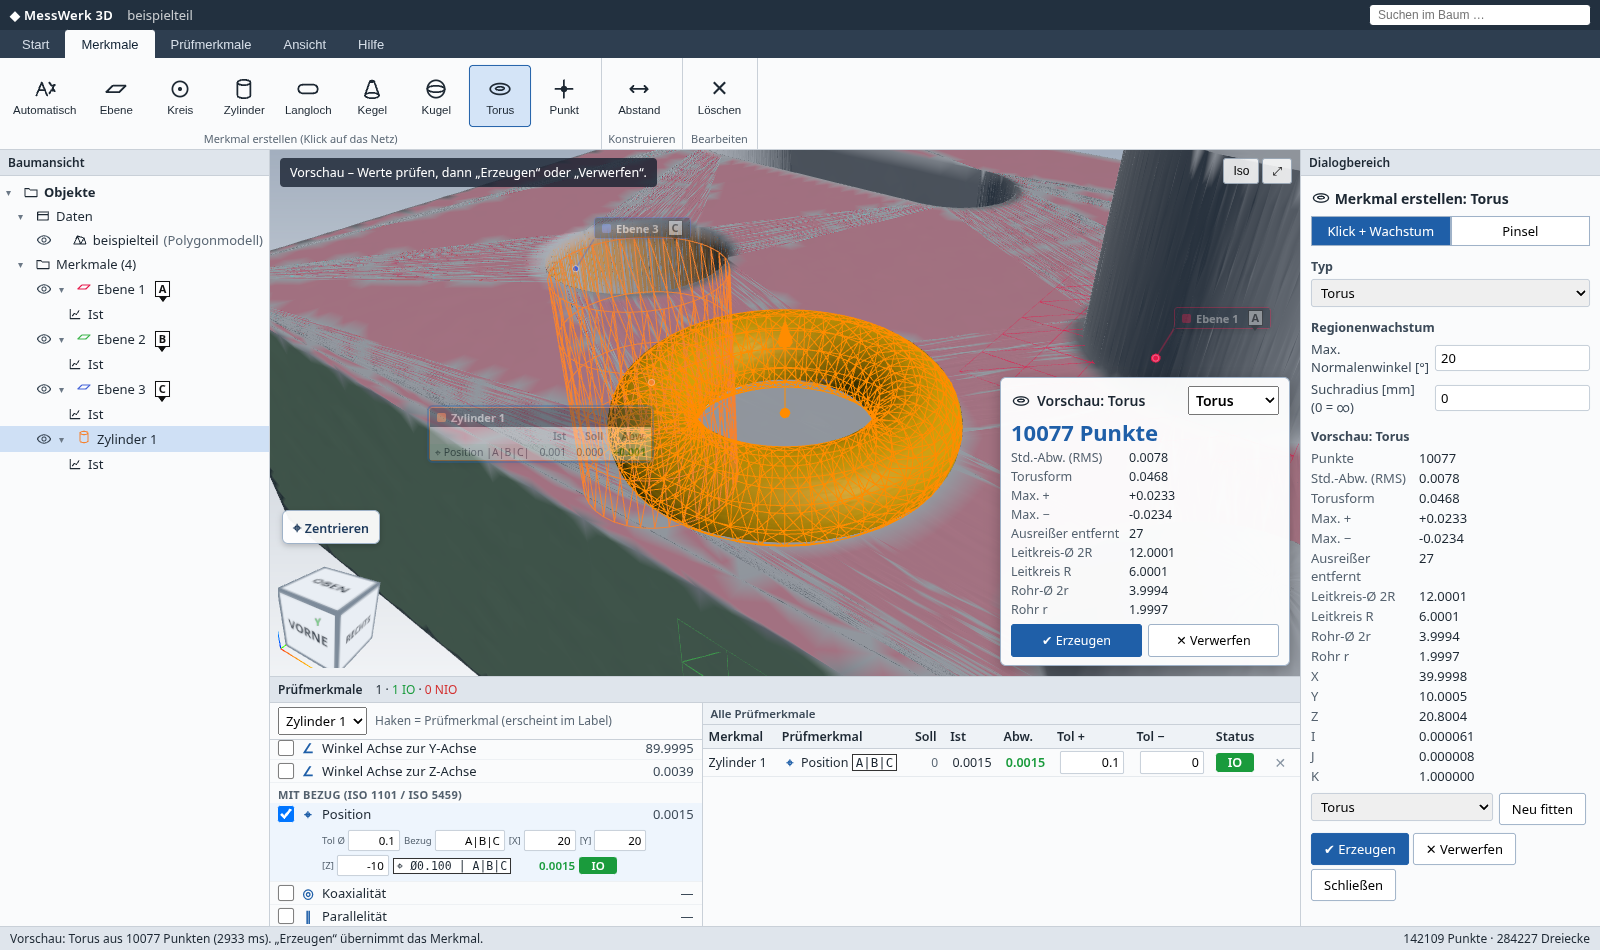
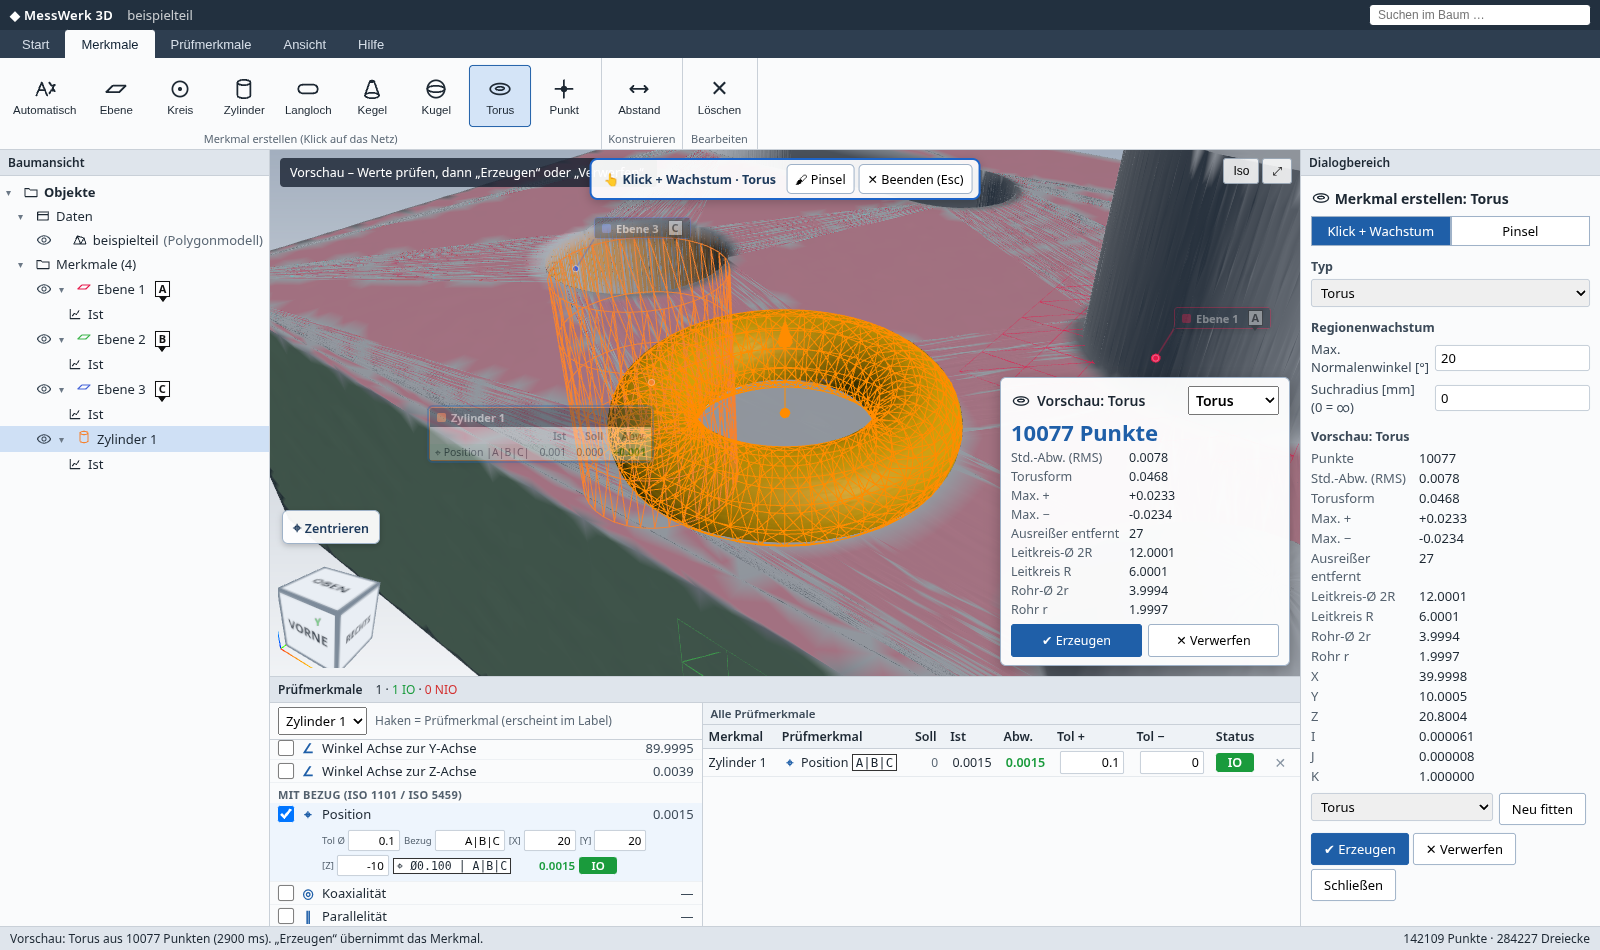
Training: Schritte überspringen (Ergebnisse automatisch), Schrittliste zum Springen; e2e training-skip-check

Changed region(s): [[0.3438, 0.1526, 0.625, 0.2137]]

diff --git a/src/main.ts b/src/main.ts
@@ -1114,21 +1114,64 @@ const isLeft = (f: FeatureView) => f.type === 'Ebene' && Math.abs(f.measured!.no
 const isHole = (f: FeatureView) => f.type === 'Zylinder' && Math.abs(f.measured!.diameter! - 12.08) < 0.3;
 const pv = (pred: (m: FitResult) => boolean) => () => !!state.preview && pred(state.preview.fit);
 const tab = (t: string) => () => (document.querySelector(`.tab[data-tab="${t}"]`) as HTMLButtonElement)?.click();
+// ---- Automatik für übersprungene Schritte
+/** Nächstes Dreieck zu p, dessen Normale ungefähr n entspricht (für automatisch erzeugte Merkmale). */
+function hitAt(p: Vec3, n: Vec3): Hit | null {
+  const g = viewer.model?.geometry; if (!g?.index) return null;
+  const P = g.getAttribute('position').array as Float32Array, I = g.index.array as Uint32Array;
+  let best = -1, bd = Infinity, bn: Vec3 = [0, 0, 1];
+  for (let t = 0; t < I.length / 3; t++) {
+    const a = 3 * I[3 * t], b = 3 * I[3 * t + 1], c = 3 * I[3 * t + 2];
+    const cx = (P[a] + P[b] + P[c]) / 3, cy = (P[a + 1] + P[b + 1] + P[c + 1]) / 3, cz = (P[a + 2] + P[b + 2] + P[c + 2]) / 3;
+    const d = (cx - p[0]) ** 2 + (cy - p[1]) ** 2 + (cz - p[2]) ** 2; if (d >= bd) continue;
+    const ux = P[b] - P[a], uy = P[b + 1] - P[a + 1], uz = P[b + 2] - P[a + 2], vx = P[c] - P[a], vy = P[c + 1] - P[a + 1], vz = P[c + 2] - P[a + 2];
+    let nx = uy * vz - uz * vy, ny = uz * vx - ux * vz, nz = ux * vy - uy * vx; const L = Math.hypot(nx, ny, nz) || 1; nx /= L; ny /= L; nz /= L;
+    if (nx * n[0] + ny * n[1] + nz * n[2] < 0.7) continue;
+    bd = d; best = t; bn = [nx, ny, nz];
+  }
+  return best < 0 ? null : { tri: best, point: [p[0], p[1], p[2]], normal: bn };
+}
+async function ensureSample() {
+  if (state.data?.name.startsWith('beispielteil')) return;
+  if (!samples) samples = await (await fetch('./samples/index.json')).json();
+  await loadSample(samples!.find((s) => s.key === 'beispielteil')!);
+}
+async function ensurePreview(type: GeomType, p: Vec3, n: Vec3, pred: (f: FeatureView) => boolean) {
+  await ensureSample(); if (findF(pred)) return;
+  tab('merkmale')(); if (state.mode?.kind !== 'fit' || state.mode.type !== type) startFitMode(type);
+  const h = hitAt(p, n); if (h) await previewByClick(h);
+}
+async function ensureFeature(type: GeomType, p: Vec3, n: Vec3, pred: (f: FeatureView) => boolean) {
+  await ensureSample(); if (findF(pred)) return;
+  if (!(state.preview && state.preview.fit.type === type)) await ensurePreview(type, p, n, pred);
+  if (state.preview) commitPreview();
+}
+const TRAIN_FEATS: Record<string, [GeomType, Vec3, Vec3]> = { A: ['Ebene', [70, 50, 20], [0, 0, 1]], B: ['Ebene', [50, 0, 10], [0, -1, 0]], C: ['Ebene', [0, 30, 10], [-1, 0, 0]], H: ['Zylinder', [20, 26.04, 15], [0, -1, 0]] };
+async function ensureDatum(letter: string, pred: (f: FeatureView) => boolean) {
+  const [t, p, n] = TRAIN_FEATS[letter]; await ensureFeature(t, p, n, pred);
+  const f = findF(pred); if (f && f.datum !== letter) setDatum(f, letter);
+}
+async function ensurePosition() {
+  await ensureDatum('A', isTop); await ensureDatum('B', isFront); await ensureDatum('C', isLeft);
+  const [t, p, n] = TRAIN_FEATS.H; await ensureFeature(t, p, n, isHole);
+  const f = findF(isHole)!; if (!state.controls.some((c) => c.kind === 'Position' && c.featureIds[0] === f.id)) toggleControl('Position', f.id, true);
+}
 function datumSteps(letter: string, pred: (f: FeatureView) => boolean, what: string): TourStep {
   return {
+    auto: () => ensureDatum(letter, pred),
     title: `Bezug ${letter} zuweisen`, text: `${what} ist ausgewählt. Wähle im Dialog unter <b>Bezug</b> den Buchstaben <b>${letter}</b> und tippe auf <b>Bezug zuweisen</b>.`,
     target: () => document.querySelector('#dt-box'),
     enter: () => { const f = findF(pred); if (f) { state.sel = [f.id]; state.mode = null; renderAll(); } if (isPhone()) togglePanel('dialog', true); setTimeout(() => { const s = document.querySelector<HTMLSelectElement>('#dt-letter'); if (s && !findF(pred)?.datum) s.value = letter; }, 50); },
     check: () => findF(pred)?.datum === letter,
   };
 }
-function planeSteps(name: string, p: Vec3, dir: [number, number, number] | null, pred: (f: FeatureView) => boolean, nPred: (m: FitResult) => boolean): TourStep[] {
+function planeSteps(name: string, p: Vec3, dir: [number, number, number] | null, pred: (f: FeatureView) => boolean, nPred: (m: FitResult) => boolean, n: Vec3 = [0, 0, 1]): TourStep[] {
   return [
-    { title: `${name} antippen`, text: `Modus <b>Ebene</b> ist aktiv. Tippe auf die markierte Stelle (gelber Ring) – die <b>${name}</b> des Teils. Es erscheint eine orange Vorschau.`,
+    { auto: () => ensurePreview('Ebene', p, n, pred), title: `${name} antippen`, text: `Modus <b>Ebene</b> ist aktiv. Tippe auf die markierte Stelle (gelber Ring) – die <b>${name}</b> des Teils. Es erscheint eine orange Vorschau.`,
       world: () => worldToScreen(p),
       enter: () => { if (isPhone()) togglePanel('dialog', false); tab('merkmale')(); if (state.mode?.kind !== 'fit' || state.mode.type !== 'Ebene') startFitMode('Ebene'); dir ? viewer.viewDir(dir) : viewer.view('iso'); },
       check: () => !!findF(pred) || pv(nPred)() },
-    { title: 'Erzeugen', text: 'Prüfe die Kennwerte (Punkte, RMS, Ebenheit) und tippe auf <b>✔ Erzeugen</b>.', target: () => document.querySelector('#pc-create'), check: () => !!findF(pred) },
+    { auto: () => ensureFeature('Ebene', p, n, pred), title: 'Erzeugen', text: 'Prüfe die Kennwerte (Punkte, RMS, Ebenheit) und tippe auf <b>✔ Erzeugen</b>.', target: () => document.querySelector('#pc-create'), check: () => !!findF(pred) },
   ];
 }
 function startTraining() {
@@ -1137,26 +1180,26 @@ function startTraining() {
   const steps: TourStep[] = [
     { title: 'Training: Bezüge & Position', text: 'In dieser geführten Übung legst du am Beispielteil das Bezugssystem <b>A|B|C</b> fest (Oberseite, Vorderseite, linke Seite) und prüfst die <b>Position</b> der Bohrung Ø12 mit Bezug auf A|B|C.<br>Jeder Schritt wird automatisch geprüft. Mit <b>Weiter</b> geht es los.' },
     { title: 'Beispielteil laden', text: 'Tippe im Register <b>Start</b> auf <b>Beispiel laden</b> – im Training wird direkt das Standard-Beispielteil geladen. (Ein laufendes Projekt wird ersetzt – vorher ggf. „Projekt speichern“.)',
-      target: () => document.querySelector('#btn-sample'), enter: () => { lc0 = loadCount; tab('start')(); if (isPhone()) document.body.classList.remove('show-tree', 'show-dialog', 'show-table'); },
-      check: () => loadCount > lc0 && !!state.data?.name.startsWith('beispielteil') },
-    { title: 'Register „Merkmale“', text: 'Öffne oben das Register <b>Merkmale</b>.', target: () => document.querySelector('.tab[data-tab="merkmale"]'), check: () => !!document.querySelector('.tab.active[data-tab="merkmale"]') },
-    { title: 'Merkmalstyp Ebene', text: 'Wähle <b>Ebene</b>. Damit wird nur eine Ebene gefittet.', target: () => document.querySelector('[data-ftype="Ebene"]'), check: () => state.mode?.kind === 'fit' && state.mode.type === 'Ebene' },
+      auto: ensureSample, target: () => document.querySelector('#btn-sample'), enter: () => { lc0 = loadCount; tab('start')(); if (isPhone()) document.body.classList.remove('show-tree', 'show-dialog', 'show-table'); },
+      check: () => (loadCount > lc0 || state.features.length > 0) && !!state.data?.name.startsWith('beispielteil') },
+    { auto: async () => tab('merkmale')(), title: 'Register „Merkmale“', text: 'Öffne oben das Register <b>Merkmale</b>.', target: () => document.querySelector('.tab[data-tab="merkmale"]'), check: () => !!document.querySelector('.tab.active[data-tab="merkmale"]') },
+    { auto: async () => { await ensureSample(); tab('merkmale')(); startFitMode('Ebene'); }, title: 'Merkmalstyp Ebene', text: 'Wähle <b>Ebene</b>. Damit wird nur eine Ebene gefittet.', target: () => document.querySelector('[data-ftype="Ebene"]'), check: () => (state.mode?.kind === 'fit' && state.mode.type === 'Ebene') || !!findF(isTop) },
     ...planeSteps('Oberseite', [70, 50, 20], null, isTop, (m) => m.type === 'Ebene' && m.normal[2] > 0.99),
     datumSteps('A', isTop, 'Die Oberseite (primärer Bezug: legt die Orientierung fest)'),
-    ...planeSteps('Vorderseite', [50, 0, 10], null, isFront, (m) => m.type === 'Ebene' && Math.abs(m.normal[1]) > 0.99),
+    ...planeSteps('Vorderseite', [50, 0, 10], null, isFront, (m) => m.type === 'Ebene' && Math.abs(m.normal[1]) > 0.99, [0, -1, 0]),
     datumSteps('B', isFront, 'Die Vorderseite (sekundärer Bezug: Richtung in A und Ursprung in Y)'),
-    ...planeSteps('linke Seite', [0, 30, 10], [-1, -1.2, 0.9], isLeft, (m) => m.type === 'Ebene' && Math.abs(m.normal[0]) > 0.99),
+    ...planeSteps('linke Seite', [0, 30, 10], [-1, -1.2, 0.9], isLeft, (m) => m.type === 'Ebene' && Math.abs(m.normal[0]) > 0.99, [-1, 0, 0]),
     datumSteps('C', isLeft, 'Die linke Seite (tertiärer Bezug: Ursprung in X)'),
-    { title: 'Merkmalstyp Zylinder', text: 'Wähle im Register Merkmale den Typ <b>Zylinder</b>.', target: () => document.querySelector('[data-ftype="Zylinder"]'),
+    { auto: async () => { await ensureSample(); tab('merkmale')(); startFitMode('Zylinder'); }, title: 'Merkmalstyp Zylinder', text: 'Wähle im Register Merkmale den Typ <b>Zylinder</b>.', target: () => document.querySelector('[data-ftype="Zylinder"]'),
       enter: () => { if (isPhone()) togglePanel('dialog', false); tab('merkmale')(); viewer.view('iso'); }, check: () => (state.mode?.kind === 'fit' && state.mode.type === 'Zylinder') || !!findF(isHole) },
-    { title: 'Bohrung Ø12 antippen', text: 'Tippe auf die <b>Wand der Bohrung</b> (gelber Ring).', world: () => worldToScreen([20, 26.04, 15]), enter: () => viewer.view('iso'),
+    { auto: () => ensurePreview('Zylinder', TRAIN_FEATS.H[1], TRAIN_FEATS.H[2], isHole), title: 'Bohrung Ø12 antippen', text: 'Tippe auf die <b>Wand der Bohrung</b> (gelber Ring).', world: () => worldToScreen([20, 26.04, 15]), enter: () => viewer.view('iso'),
       check: () => !!findF(isHole) || pv((m) => m.type === 'Zylinder' && Math.abs(m.diameter! - 12.08) < 0.3)() },
-    { title: 'Erzeugen', text: 'Tippe auf <b>✔ Erzeugen</b>.', target: () => document.querySelector('#pc-create'), check: () => !!findF(isHole) },
-    { title: 'Positionstoleranz ⌖ A|B|C', text: 'Im Fenster <b>Prüfmerkmale</b> (Katalog) unter „Mit Bezug“ den Haken bei <b>⌖ Position</b> setzen. Die Bezüge A|B|C werden automatisch eingetragen.',
+    { auto: () => ensureFeature('Zylinder', TRAIN_FEATS.H[1], TRAIN_FEATS.H[2], isHole), title: 'Erzeugen', text: 'Tippe auf <b>✔ Erzeugen</b>.', target: () => document.querySelector('#pc-create'), check: () => !!findF(isHole) },
+    { auto: ensurePosition, title: 'Positionstoleranz ⌖ A|B|C', text: 'Im Fenster <b>Prüfmerkmale</b> (Katalog) unter „Mit Bezug“ den Haken bei <b>⌖ Position</b> setzen. Die Bezüge A|B|C werden automatisch eingetragen.',
       target: () => document.querySelector('#catalog .cat-item[data-kind="Position"]'),
       enter: () => { const f = findF(isHole); if (f) { state.sel = [f.id]; state.addFeat = f.id; state.ctab = 'katalog'; state.mode = null; renderAll(); } if (isPhone()) togglePanel('table', true); },
       check: () => { const f = findF(isHole); const fm = featMap(); return !!f && state.controls.some((c) => c.kind === 'Position' && c.featureIds[0] === f.id && datumText(c, fm) === 'A|B|C'); } },
-    { title: 'Sollmaße [X] [Y] und Toleranz', text: 'Trage die theoretisch genauen Maße <b>[X] = 20</b> und <b>[Y] = 20</b> ein (bereits vorbelegt, bitte prüfen) und lasse die Toleranz <b>Ø 0,1</b>. Ergebnis: IO/NIO und Eintrag im 3D-Label.',
+    { auto: async () => { await ensurePosition(); const f = findF(isHole)!; const c = state.controls.find((k) => k.kind === 'Position' && k.featureIds[0] === f.id)!; c.basic = [20, 20, c.basic?.[2] ?? 0]; renderAll(); }, title: 'Sollmaße [X] [Y] und Toleranz', text: 'Trage die theoretisch genauen Maße <b>[X] = 20</b> und <b>[Y] = 20</b> ein (bereits vorbelegt, bitte prüfen) und lasse die Toleranz <b>Ø 0,1</b>. Ergebnis: IO/NIO und Eintrag im 3D-Label.',
       target: () => document.querySelector('#catalog .cat-item[data-kind="Position"] .cat-ed'),
       check: () => { const f = findF(isHole); const c = state.controls.find((k) => k.kind === 'Position' && k.featureIds[0] === f?.id); return !!c && Math.abs((c.basic?.[0] ?? 0) - 20) < 1e-6 && Math.abs((c.basic?.[1] ?? 0) - 20) < 1e-6; } },
     { title: 'Geschafft! 🎉', text: 'Die Bohrung ist jetzt mit <b>⌖ Ø0,1 | A | B | C</b> toleriert. Die Bezugsfahnen stehen im Baum und in den 3D-Labels. Bezüge lassen sich im Dialog umbenennen (Buchstaben tauschen) oder entfernen – abhängige Prüfmerkmale werden dann markiert.',

diff --git a/src/training.ts b/src/training.ts
@@ -7,6 +7,7 @@ export interface TourStep {
   world?: () => { x: number; y: number } | null;         // Bildschirmpunkt einer 3D-Stelle (Markierung zum Antippen)
   check?: () => boolean;                                  // Schritt erledigt?
   enter?: () => void;
+  auto?: () => Promise<void>;                             // Überspringen: Ergebnis des Schritts automatisch herstellen
 }
 
 export class Tour {
@@ -26,6 +27,14 @@ export class Tour {
     document.body.classList.add('training');
   }
   start() { this.go(0); this.timer = window.setInterval(() => this.tick(), 250); const loop = () => { this.place(); this.raf = requestAnimationFrame(loop); }; loop(); }
+  private busy = false; private showList = false;
+  /** Schritte < k, deren Ergebnis fehlt, automatisch ausführen (z. B. Beispiel laden, Merkmal erzeugen, Bezug zuweisen). */
+  async ensureUpTo(k: number) {
+    for (let i = 0; i < k; i++) { const s = this.steps[i]; if (s.auto && !(s.check?.() ?? true)) { this.status(`Automatisch: ${s.title} …`); try { await s.auto(); } catch (e) { console.warn('Training auto', e); } } }
+  }
+  async skip() { if (this.busy) return; this.busy = true; try { await this.ensureUpTo(this.idx + 1); } finally { this.busy = false; } if (this.idx < this.steps.length - 1) this.go(this.idx + 1); else this.render(); }
+  async jump(k: number) { if (this.busy) return; this.busy = true; this.showList = false; try { if (k > this.idx) await this.ensureUpTo(k); } finally { this.busy = false; } this.go(k); }
+  private status(t: string) { const e = this.card.querySelector('.tc-state'); if (e) { e.textContent = t; e.className = 'tc-state'; } }
   go(i: number) {
     this.idx = Math.max(0, Math.min(this.steps.length - 1, i)); this.advanceAt = 0;
     const s = this.steps[this.idx]; s.enter?.(); this.render();
@@ -42,14 +51,20 @@ export class Tour {
       <div class="tc-title">${s.title}</div><div class="tc-text">${s.text}</div>
       ${s.check ? `<div class="tc-state ${ok ? 'ok' : ''}">${ok ? '✔ Erledigt' : '… warte auf deine Aktion'}</div>` : ''}
       <div class="tc-btns"><button class="btn" id="tc-back" ${this.idx === 0 ? 'disabled' : ''}>◀ Zurück</button>
-      <button class="btn primary" id="tc-next" ${ok ? '' : 'disabled'}>${last ? 'Fertig' : 'Weiter ▶'}</button></div>`;
+      <button class="btn" id="tc-list" title="Schrittliste">☰ Schritte</button>
+      ${!ok && !last ? `<button class="btn" id="tc-skip" title="Schritt überspringen – das Ergebnis wird automatisch erzeugt">Überspringen ⏭</button>` : ''}
+      <button class="btn primary" id="tc-next" ${ok ? '' : 'disabled'}>${last ? 'Fertig' : 'Weiter ▶'}</button></div>
+      ${this.showList ? `<ol class="tc-list">${this.steps.map((x, i) => `<li><button data-i="${i}" class="${i === this.idx ? 'cur' : ''} ${x.check && x.check() ? 'done' : ''}">${i + 1}. ${x.title}</button></li>`).join('')}</ol>` : ''}`;
     this.card.dataset.step = String(this.idx);
     this.card.querySelector<HTMLButtonElement>('.tc-x')!.onclick = () => this.end();
     this.card.querySelector<HTMLButtonElement>('#tc-back')!.onclick = () => this.go(this.idx - 1);
     this.card.querySelector<HTMLButtonElement>('#tc-next')!.onclick = () => (last ? this.end() : this.go(this.idx + 1));
+    this.card.querySelector<HTMLButtonElement>('#tc-skip')?.addEventListener('click', () => this.skip());
+    this.card.querySelector<HTMLButtonElement>('#tc-list')!.onclick = () => { this.showList = !this.showList; this.render(); };
+    this.card.querySelectorAll<HTMLButtonElement>('.tc-list button').forEach((b) => (b.onclick = () => this.jump(+b.dataset.i!)));
   }
   private tick() {
-    const s = this.steps[this.idx]; if (!s.check) return;
+    const s = this.steps[this.idx]; if (!s.check || this.busy) return;
     const ok = s.check();
     const shown = this.card.querySelector('.tc-state')?.classList.contains('ok');
     if (ok !== shown) this.render();

diff --git a/src/style.css b/src/style.css
@@ -241,3 +241,7 @@ body.thumb #btn-center, body.thumb #navcube, body.thumb #viewcube, body.thumb #l
 #mode-bar button.warn, .btn.warn { border-color:#dc2626; color:#b91c1c; font-weight:600; } #mode-bar button:disabled { opacity:.45; }
 #hint:empty { display:none; }
 @media (max-width: 900px), (max-height: 560px) { #mode-bar { left:6px; right:84px; transform:none; max-width:none; top:6px; font-size:11.5px; } #mode-bar button { min-height:34px; padding:4px 7px; } }
+
+.tc-btns { flex-wrap:wrap; gap:6px; } .tc-list { margin:8px 0 0; padding:0; list-style:none; max-height:40vh; overflow:auto; border-top:1px solid #dde2e8; }
+.tc-list button { display:block; width:100%; text-align:left; border:none; background:none; padding:6px 4px; font:inherit; border-radius:4px; cursor:pointer; min-height:32px; }
+.tc-list button.cur { background:#e6eef8; font-weight:700; } .tc-list button.done::after { content:' ✔'; color:var(--io); }
